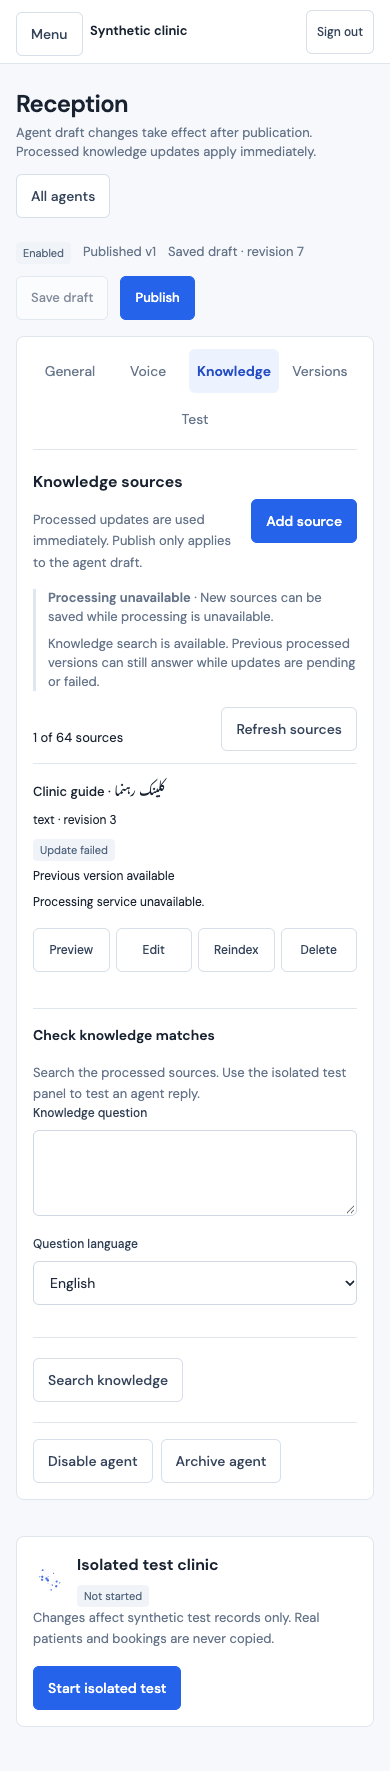
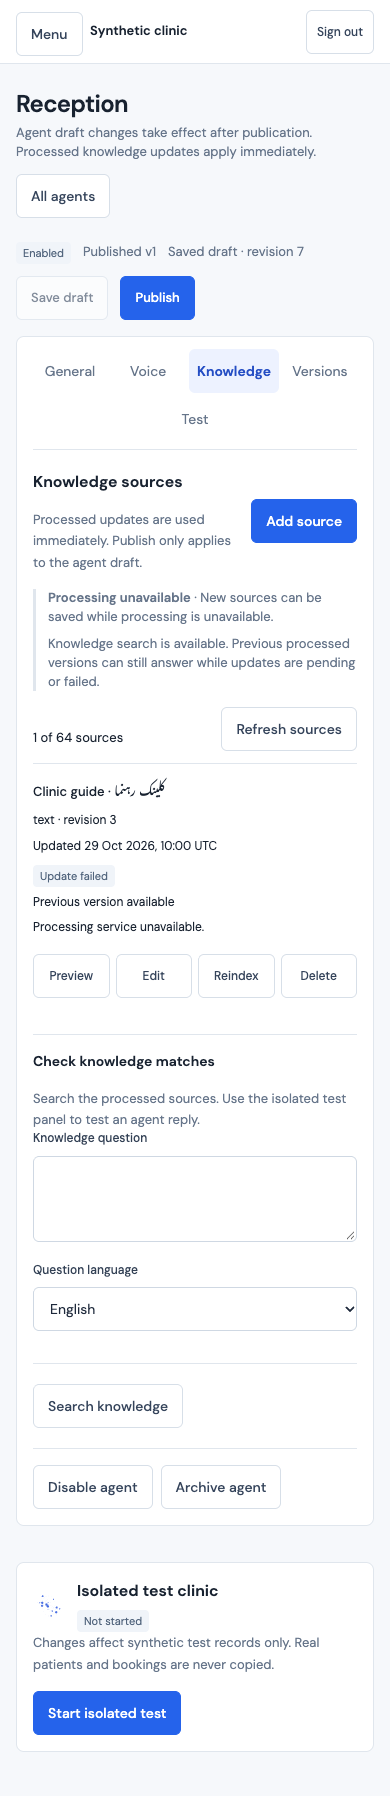
fix: show truthful knowledge availability and source update time

diff --git a/e2e/knowledge.spec.ts b/e2e/knowledge.spec.ts
@@ -205,6 +205,11 @@ test("compact responsive source table, keyboard preview, Urdu provenance and cit
     page.getByText("Previous version available", { exact: true }),
   ).toBeVisible();
   for (const width of [1440, 1024, 390]) {
+    await expect(page.locator("time")).toHaveText("29 Oct 2026, 10:00 UTC");
+    await expect(page.locator("time")).toHaveAttribute(
+      "datetime",
+      source.updated_at,
+    );
     await page.setViewportSize({ width, height: 1000 });
     await page.evaluate(async () => {
       scrollTo(0, 0);
@@ -407,4 +412,37 @@ test("source edit opening loads fresh content and initial detail errors offer vi
       (message) => !message.includes("Failed to load resource"),
     ),
   ).toEqual([]);
+});
+
+test("failed-only sources show neutral availability and update time on narrow screens", async ({
+  page,
+}) => {
+  const fixture = await install(page);
+  Object.assign(fixture.state.sources[0]!, {
+    available: false,
+    active_generation_id: null,
+    chunk_count: 0,
+  });
+  fixture.state.capabilities.query_available = false;
+  fixture.state.capabilities.query_unavailable_reason = "processing_pending";
+  await openKnowledge(page);
+  await page.setViewportSize({ width: 390, height: 1000 });
+  await expect(page.getByText("Failed", { exact: true })).toBeVisible();
+  await expect(
+    page.getByText("No processed knowledge is available. Check source status."),
+  ).toBeVisible();
+  await expect(page.locator("time")).toHaveText("29 Oct 2026, 10:00 UTC");
+  await expect(
+    page.getByText(/Knowledge is still processing|Checking processing status/),
+  ).toHaveCount(0);
+  expect(
+    await page.evaluate(
+      () => document.documentElement.scrollWidth <= innerWidth,
+    ),
+  ).toBe(true);
+  await page.screenshot({
+    path: "docs/evidence/phase-5-knowledge/failed-only-390.png",
+    fullPage: true,
+  });
+  expect(fixture.errors).toEqual([]);
 });

diff --git a/src/features/knowledge/dashboard.test.tsx b/src/features/knowledge/dashboard.test.tsx
@@ -393,3 +393,33 @@ it("shows Retry and Cancel for initial protected-detail errors, restores focus o
     screen.queryByText("Source detail unavailable"),
   ).not.toBeInTheDocument();
 });
+it("shows a failed-only library as unavailable without claiming work is ongoing", async () => {
+  Object.assign(fixture.state.sources[0]!, {
+    available: false,
+    active_generation_id: null,
+    chunk_count: 0,
+  });
+  fixture.state.capabilities.query_available = false;
+  fixture.state.capabilities.query_unavailable_reason = "processing_pending";
+  const { user } = await setup();
+  await knowledge(user);
+  expect(screen.getByText("Failed", { exact: true })).toBeInTheDocument();
+  expect(
+    screen.getByText(
+      "No processed knowledge is available. Check source status.",
+    ),
+  ).toBeInTheDocument();
+  expect(
+    screen.queryByText(
+      /Knowledge is still processing|Checking processing status/,
+    ),
+  ).not.toBeInTheDocument();
+});
+it("shows the source absolute update time with its timezone", async () => {
+  const { user } = await setup();
+  await knowledge(user);
+  const time = screen.getByText("29 Oct 2026, 10:00 UTC");
+  expect(time.tagName).toBe("TIME");
+  expect(time).toHaveAttribute("datetime", "2026-10-29T10:00:00Z");
+  expect(time.parentElement).toHaveTextContent("Updated");
+});

diff --git a/src/features/knowledge/KnowledgeDashboard.tsx b/src/features/knowledge/KnowledgeDashboard.tsx
@@ -218,6 +218,20 @@ export function KnowledgeDashboard({
                         <span className="muted">
                           {source.kind} · revision {source.revision}
                         </span>
+                        <span className="muted">
+                          Updated{" "}
+                          <time dateTime={source.updated_at}>
+                            {new Intl.DateTimeFormat("en-GB", {
+                              day: "2-digit",
+                              month: "short",
+                              year: "numeric",
+                              hour: "2-digit",
+                              minute: "2-digit",
+                              timeZone: "UTC",
+                              timeZoneName: "short",
+                            }).format(new Date(source.updated_at))}
+                          </time>
+                        </span>
                       </td>
                       <td>
                         <StatusBadge>{statusText(source)}</StatusBadge>

diff --git a/src/features/knowledge/citations.test.tsx b/src/features/knowledge/citations.test.tsx
@@ -56,3 +56,10 @@ it("bounds returned citations and escapes quotes while showing non-ready decisio
     ).toBeTruthy();
   }
 });
+it("does not describe an unavailable corpus as ongoing processing in the trace", () => {
+  render(<KnowledgeCitations trace={{ status: "processing_pending" }} />);
+  expect(screen.getByRole("region")).toHaveTextContent(
+    "No processed knowledge is available. Check source status.",
+  );
+  expect(screen.getByRole("region")).not.toHaveTextContent("still processing");
+});

diff --git a/src/features/knowledge/presentation.ts b/src/features/knowledge/presentation.ts
@@ -1,7 +1,8 @@
 export const queryReason: Record<string, string> = {
   ready: "Matching knowledge",
   no_sources: "No processed knowledge sources are available.",
-  processing_pending: "Knowledge is still processing.",
+  processing_pending:
+    "No processed knowledge is available. Check source status.",
   below_threshold: "No sufficiently relevant knowledge was found.",
   service_unavailable: "Knowledge search is unavailable. Try again later.",
   disabled: "Knowledge search is disabled.",

diff --git a/docs/phase-5-results.md b/docs/phase-5-results.md
@@ -1,13 +1,15 @@
-# Phase 5 dashboard results — 2026-10-30
+# Phase 5 dashboard results — refreshed 2026-11-08
 
-The final frontend check passes contracts, lint, types, **125 unit tests** and build. Maintained mocked browser fixtures pass **7 tests** with the installed Chrome executable. They cover binary replay/auth loss, source editor lifecycle, protected detail error recovery, revisions/conflicts, navigation guards, Urdu/citations, responsive layout and keyboard behavior. Ready sources and answers in these fixtures are simulated evidence only.
+The final frontend check passes contracts, lint, types, **128 unit tests** and build. Maintained mocked browser fixtures pass **8 tests** with the installed Chrome executable. They cover binary replay/auth loss, source editor lifecycle, protected detail error recovery, revisions/conflicts, navigation guards, Urdu/citations, responsive layout and keyboard behavior. The final correction adds a failed-only unavailable-library fixture, truthful neutral status copy, and visible absolute UTC source update times. The initial new browser test failed on desktop navigation after switching to mobile; its setup now navigates before narrowing the viewport. Ready sources and answers in these fixtures are simulated evidence only.
 
-Real synthetic local UI checks covered text and Urdu FAQ create/edit, public URL create/edit/delete, reindex, protected prefill, queued status, unavailable search/preview, and an isolated child question. `Is bicycle parking available?` returned no verified answer with a processing-pending trace; ending the test left the synthetic parent's appointment and audit hashes unchanged. No document was copied into the child and no ready development vectors were inserted.
+Earlier checkpoint real synthetic local UI checks covered text and Urdu FAQ create/edit, public URL create/edit/delete, reindex, protected prefill, queued status, unavailable search/preview, and an isolated child question. `Is bicycle parking available?` returned no verified answer with a processing-pending trace; ending the test left the synthetic parent's appointment and audit hashes unchanged. No document was copied into the child and no ready development vectors were inserted.
 
-The maintained opt-in `live/knowledge.spec.ts` passed against the actual local API: file upload **201**, replacement **200**, SHA256 headers, queued revision 2, and deletion. Exact replacement bytes were separately verified in the private server blob. Initial CUA uploads were blocked by Chrome extension file permissions; no permissions were changed. Two initial live-test harness failures (Chromium's unavailable Blob request-body inspection and an incorrect replacement-input label) were preserved, corrected, and rerun. Their disposable synthetic rows were removed through the UI. The default live-test invocation skips before opening a browser or reading credentials.
+At the earlier checkpoint, maintained opt-in `live/knowledge.spec.ts` passed against the actual local API: file upload **201**, replacement **200**, SHA256 headers, queued revision 2, and deletion. Exact replacement bytes were separately verified in the private server blob. Initial CUA uploads were blocked by Chrome extension file permissions; no permissions were changed. Two initial live-test harness failures (Chromium's unavailable Blob request-body inspection and an incorrect replacement-input label) were preserved, corrected, and rerun. Their disposable synthetic rows were removed through the UI. The default live-test invocation skips before opening a browser or reading credentials.
 
-Live 390px inspection measured document/body width **390px**, with no page overflow. Keyboard Enter opened the preview and visible controls stayed accessible. The live knowledge tab reported no error/warning console entries. Existing bundle-size advisories remain. Maintained speech-unavailable fixtures deliberately log 503 responses. Previous calendar ResizeObserver observations remain separate from this knowledge-page evidence and were not hidden by warning filters.
+Live 390px inspection measured document/body width **390px**, with no page overflow. Keyboard Enter opened the preview and visible controls stayed accessible. The live knowledge tab reported no error/warning console entries. Existing bundle-size advisories and terminal color warnings remain. The final browser rerun also logged the calendar `ResizeObserver loop completed with undelivered notifications` warning; it is retained as a calendar uncertainty despite the exit-zero suite. Final knowledge screenshots were reviewed at desktop and narrow widths, with neutral unavailable-corpus copy and the UTC update time visible. Unrelated Task 6 screenshots regenerated by the unchanged agent fixture were restored after their generated copies were preserved privately. Maintained speech-unavailable fixtures deliberately log 503 responses. Previous calendar ResizeObserver observations remain separate from this knowledge-page evidence and were not hidden by warning filters.
 
 [Desktop source state](evidence/phase-5-live/live-desktop.png), [mobile state](evidence/phase-5-live/live-mobile.png), [real replacement row](evidence/phase-5-live/live-upload-replaced.png), and [isolated queued response](evidence/phase-5-live/live-queued-child.png) contain synthetic QA data only. Screenshots show live queued/unavailable state, not model acceptance. The published agent draft revision stayed unchanged during source management.
 
-Hosted backend fixed-context probes used 24 counted calls after a bounded four-call technical amendment. Final targeted English, Urdu, and cross-language answers validated, and unsupported Urdu declined. These are answer-adapter regressions, not retrieval qualification. Actual embedding load, ready-generation ingestion, own-KB answers, bilingual retrieval quality, resource/latency acceptance and native voice remain pending. Follow [testing instructions](phase-5-testing.md); do not start Phase 6.
+Earlier hosted backend fixed-context probes used 24 counted calls after a bounded four-call technical amendment. Final targeted English, Urdu, and cross-language answers validated, and unsupported Urdu declined. These are answer-adapter regressions, not retrieval qualification. Actual embedding load, ready-generation ingestion, own-KB answers, bilingual retrieval quality, resource/latency acceptance and native voice remain pending. Follow [testing instructions](phase-5-testing.md); do not start Phase 6.
+
+Final correction local service verification (2026-11-08): `http://localhost:5176` returns HTTP 200; the refreshed API is live/ready and accepts that origin through the existing CORS override. Both changed backend source hashes match the running image. Database counts, role flags, migration `0009` and named volumes remain unchanged; embedding, worker and voice execution remain disabled. This availability check does not rerun the earlier live source lifecycle or qualify model answers. The single scoped final-fix review and draft publication remain controller tasks.

diff --git a/docs/phase-5-knowledge.md b/docs/phase-5-knowledge.md
@@ -1,6 +1,6 @@
 # Phase 5 knowledge workspace
 
-Task 6 extends the approved compact operations design. This is frontend fixture acceptance only. The owner API remains on Phase 4 until Task 7; real embedding qualification and live knowledge rollout remain deferred.
+The knowledge workspace extends the approved compact operations design. The local API is refreshed at migration `0009`, and source management has been exercised against it. Real embedding/tokenizer qualification, a ready knowledge corpus, end-to-end RAG and native voice acceptance remain deferred; embedding, worker and voice execution remain disabled. See the [current checkpoint](phase-5-testing.md) and [results](phase-5-results.md). Task 6 fixture evidence below records historical UI acceptance and does not establish model readiness.
 
 ## Public contracts
 
@@ -26,7 +26,7 @@ File sources have no metadata-only write endpoint: editing a file name requires 
 
 ## Layout and accessibility
 
-The existing fonts, colors, panels, status badge, QueryState, ErrorSummary, native form controls and Radix dialogs are reused. Desktop retains the 232px sidebar, 64px topbar and 24px workspace gutters; mobile retains 16px gutters. Knowledge actions are at least 44px. The source table uses aligned action columns and becomes stacked source rows on narrow screens. No dependency, global restyle or new menu was added.
+The existing fonts, colors, panels, status badge, QueryState, ErrorSummary, native form controls and Radix dialogs are reused. Desktop retains the 232px sidebar, 64px topbar and 24px workspace gutters; mobile retains 16px gutters. Knowledge actions are at least 44px. The source table uses aligned action columns and becomes stacked source rows on narrow screens. Each source shows its absolute update time in UTC. The coarse `processing_pending` query reason means no processed knowledge is available; it does not assert that work is currently running. No dependency, global restyle or new menu was added.
 
 Preview and citations use escaped text, `dir="auto"`, bounded excerpts and source provenance. Urdu uses the bundled font and generous line height. Dialogs retain keyboard focus and restore focus to their initiating control. Unknown writes cannot be dismissed by Escape or outside interaction. The UI distinguishes immediate processed-knowledge changes from Publish draft.
 
